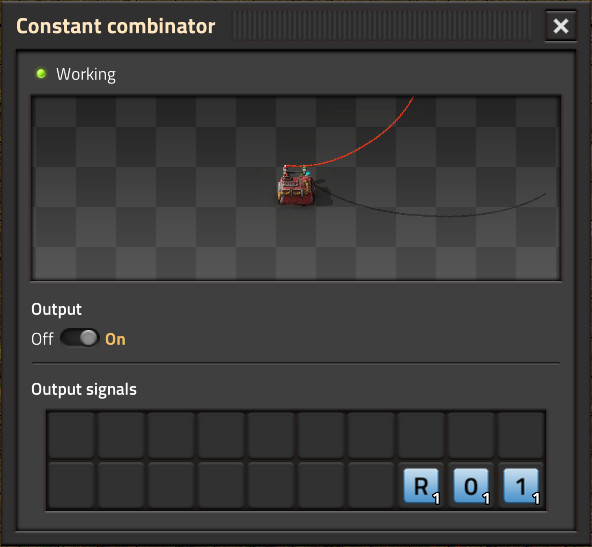
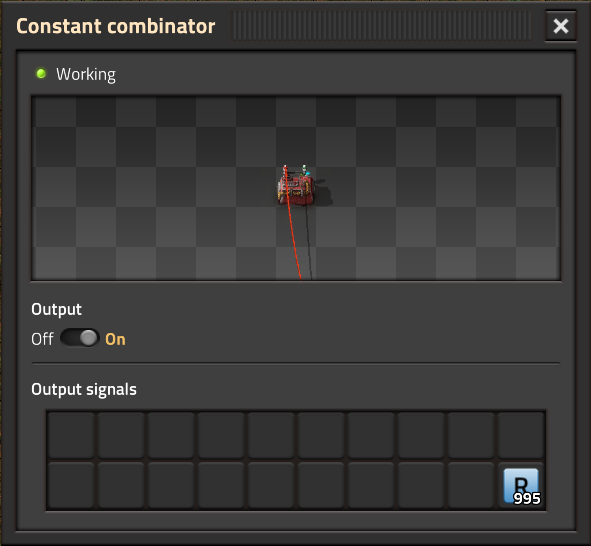
Switch from RXX format to single signal in slot 20

diff --git a/src/main.ts b/src/main.ts
@@ -19,18 +19,16 @@ app.use(function (req, res, next) {
 
 app.get("/cc/:id/signals", async (req, res) => {
   const id = req.params.id;
-  const idIsValid = /R[0-9]{2}$/.test(id);
+  const idIsValid = !isNaN(parseInt(id));
   if (!idIsValid) {
     res.status(400);
     res.send({
-      error: "Invalid ID. Must be RXX with X = 0-9",
+      error: "Invalid ID. Must be a number",
     });
     return;
   }
 
-  const result = await factorio.getSignalsFromConstantCombinatorWithId(
-    id.substring(1)
-  );
+  const result = await factorio.getSignalsFromConstantCombinatorWithId(id);
   if (result.error) {
     res.status(400);
     res.send({
@@ -44,11 +42,11 @@ app.get("/cc/:id/signals", async (req, res) => {
 
 app.post("/cc/:id/signal/:signalSlot", async (req, res) => {
   const id = req.params.id;
-  const idIsValid = /R[0-9]{2}$/.test(id);
+  const idIsValid = !isNaN(parseInt(id));
   if (!idIsValid) {
     res.status(400);
     res.send({
-      error: "Invalid ID. Must be RXX with X = 0-9",
+      error: "Invalid ID. Must be a number",
     });
     return;
   }
@@ -99,7 +97,7 @@ app.post("/cc/:id/signal/:signalSlot", async (req, res) => {
   }
 
   const result = await factorio.setSignalToConstantCombinatorWithId(
-    id.substring(1),
+    id,
     signalSlotValidationResponse.slot!,
     signalType,
     signalName,
@@ -117,11 +115,11 @@ app.post("/cc/:id/signal/:signalSlot", async (req, res) => {
 
 app.delete("/cc/:id/signal/:signalSlot", async (req, res) => {
   const id = req.params.id;
-  const idIsValid = /R[0-9]{2}$/.test(id);
+  const idIsValid = !isNaN(parseInt(id));
   if (!idIsValid) {
     res.status(400);
     res.send({
-      error: "Invalid ID. Must be RXX with X = 0-9",
+      error: "Invalid ID. Must be a number",
     });
     return;
   }
@@ -138,7 +136,7 @@ app.delete("/cc/:id/signal/:signalSlot", async (req, res) => {
   }
 
   await factorio.deleteSignalToConstantCombinatorWithId(
-    id.substring(1),
+    id,
     signalSlotValidationResponse.slot!
   );
   res.send();
@@ -152,7 +150,7 @@ app
 
 function validateSignalSlot(slot: string): { error?: string; slot?: number } {
   const slotInt = parseInt(slot);
-  if (slotInt == NaN) {
+  if (isNaN(slotInt)) {
     return { error: "Slot is no integer." };
   }
 

diff --git a/src/factorio-connector.ts b/src/factorio-connector.ts
@@ -135,19 +135,15 @@ export class FactorioConnector {
 
         -- rcon.print("Number of combinators: "..table.maxn(constantCombinators))
         for key,value in ipairs(constantCombinators) do
-            local signal18 = value.get_control_behavior().get_signal(18)
-            local signal19 = value.get_control_behavior().get_signal(19)
-            local signal20 = value.get_control_behavior().get_signal(20)
-            if (signal18.signal and signal18.signal.name == "signal-R" and
-                signal19.signal and signal19.signal.name == "signal-"..string.sub(id,1,1) and
-                signal20.signal and signal20.signal.name == "signal-"..string.sub(id,2,2)
-                ) then
-                    if (lastCcWithId) then
-                        foundMultipleCC = true
-                    end
-                    
-                    lastCcWithId = value
+          local signal20 = value.get_control_behavior().get_signal(20)
+          
+          if (signal20.signal and signal20.signal.name == "signal-R" and signal20.count == tonumber(id)) then
+            if (lastCcWithId) then
+              foundMultipleCC = true
             end
+            
+            lastCcWithId = value
+          end
         end
 
         return lastCcWithId, foundMultipleCC

diff --git a/example/index.html b/example/index.html
@@ -15,7 +15,7 @@
 
     <script>
       function callOn() {
-        axios.post("http://localhost:8080/cc/R01/signal/1", {
+        axios.post("http://localhost:8080/cc/1/signal/1", {
           signalName: "signal-red",
           signalType: "virtual",
           signalCount: "1",
@@ -23,11 +23,11 @@
       }
 
       function callOff() {
-        axios.delete("http://localhost:8080/cc/R01/signal/1");
+        axios.delete("http://localhost:8080/cc/1/signal/1");
       }
 
       function callRead() {
-        axios.get("http://localhost:8080/cc/R01/signals").then((response) => {
+        axios.get("http://localhost:8080/cc/1/signals").then((response) => {
           document.getElementById("circuit").textContent = JSON.stringify(
             response.data,
             null,

diff --git a/Readme.md b/Readme.md
@@ -15,7 +15,7 @@ This lets you control factorio constant combinators via a simple REST API.
 
 ## API
 
-The constant combinators are identified by the signal set in slots 18-20 and must be in the form RXX with X = 0-9.
+The constant combinators are identified by the signal R set in slot 20. In the image below you would use `/cc/995/signals`
 
 ![Constant Combinator with id R01](/doc/img/cc_r01.png)
 
